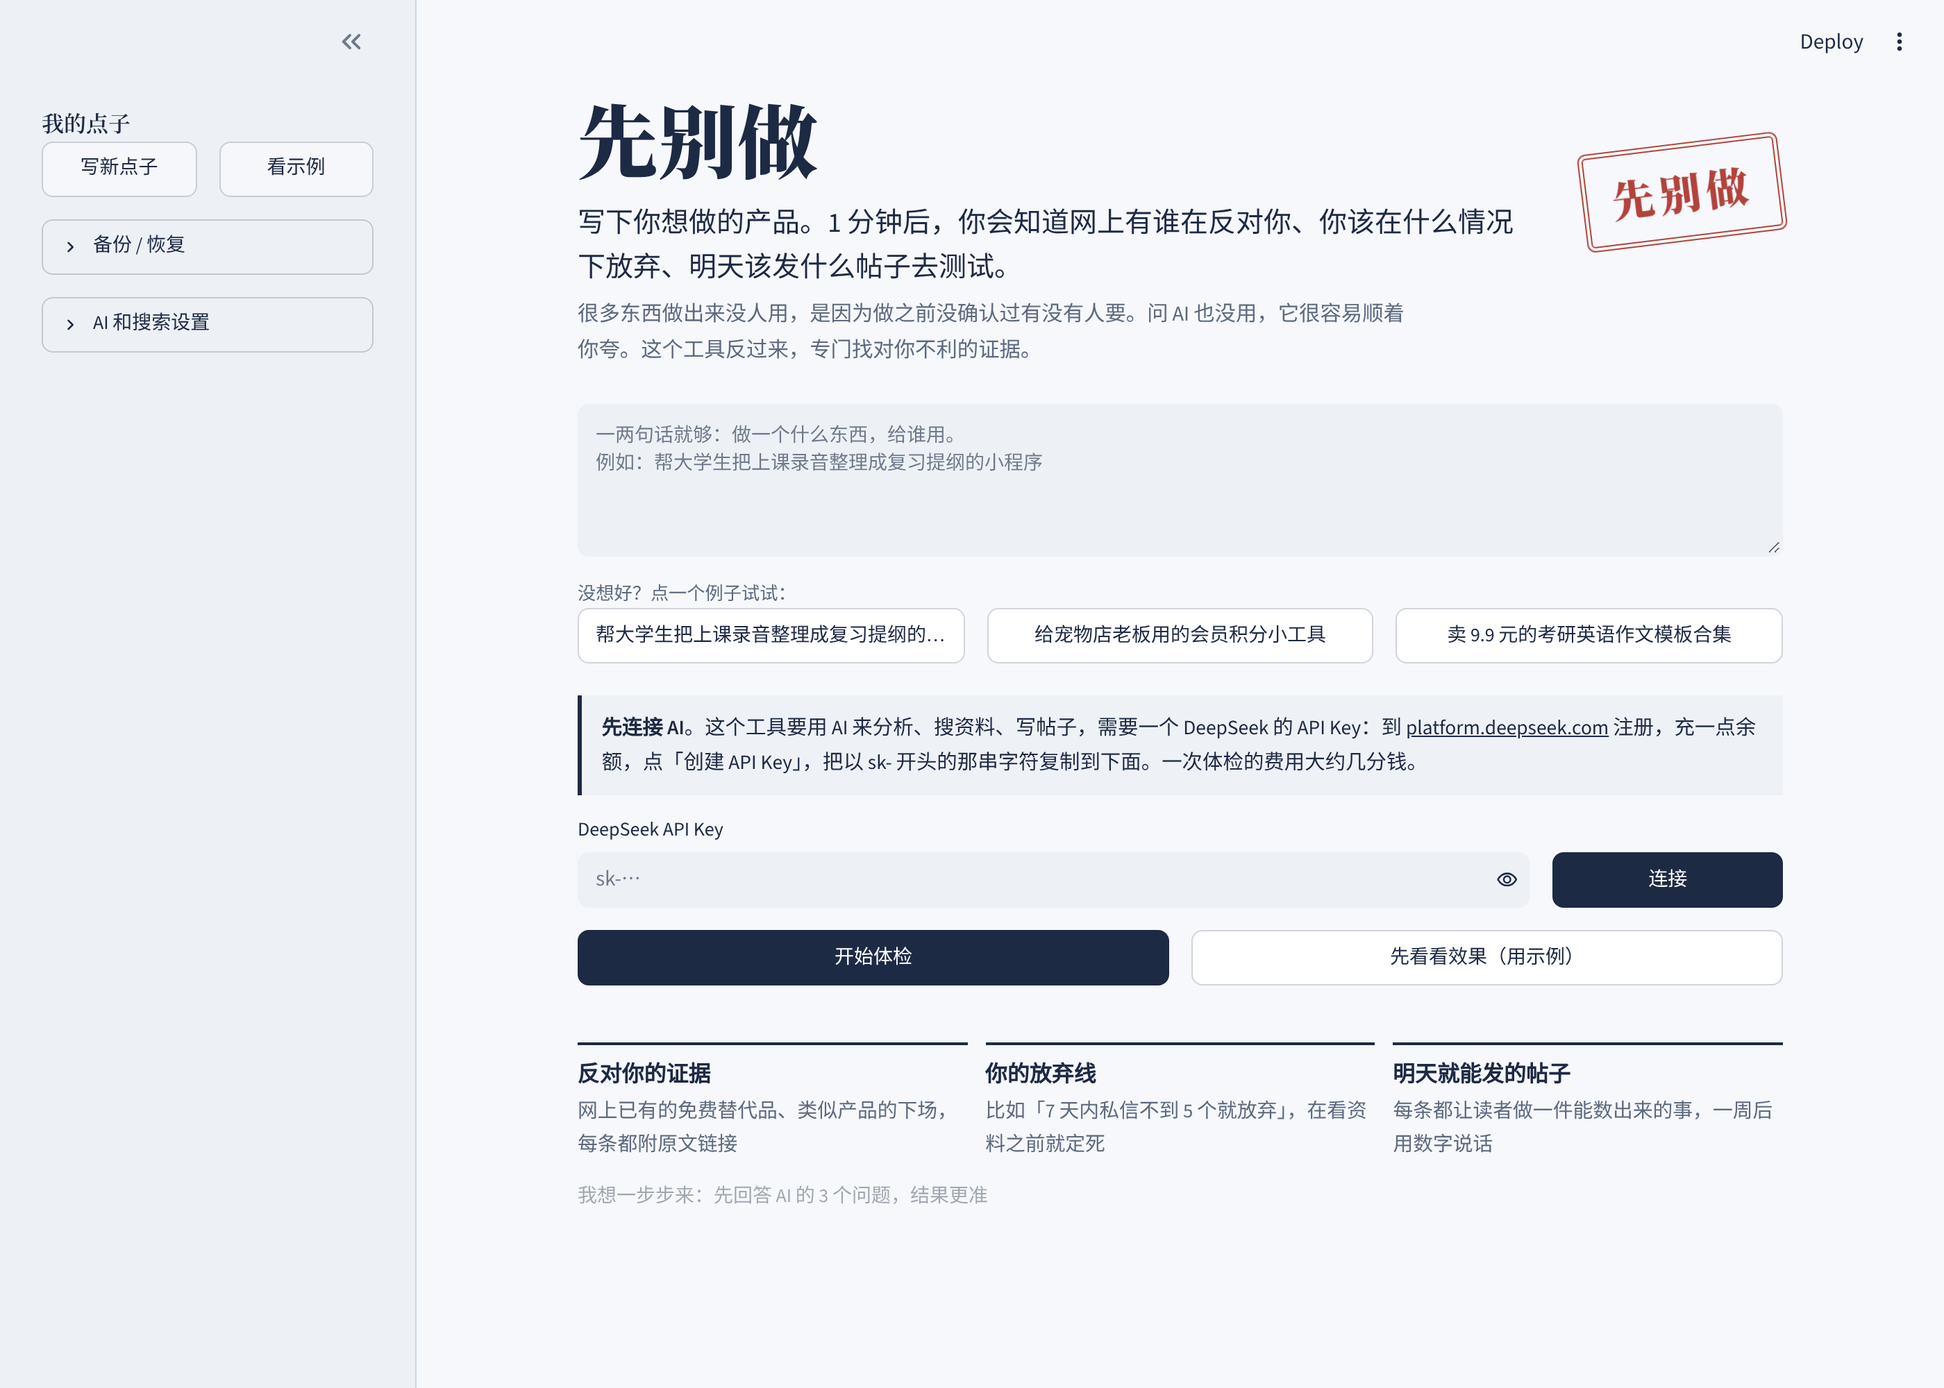
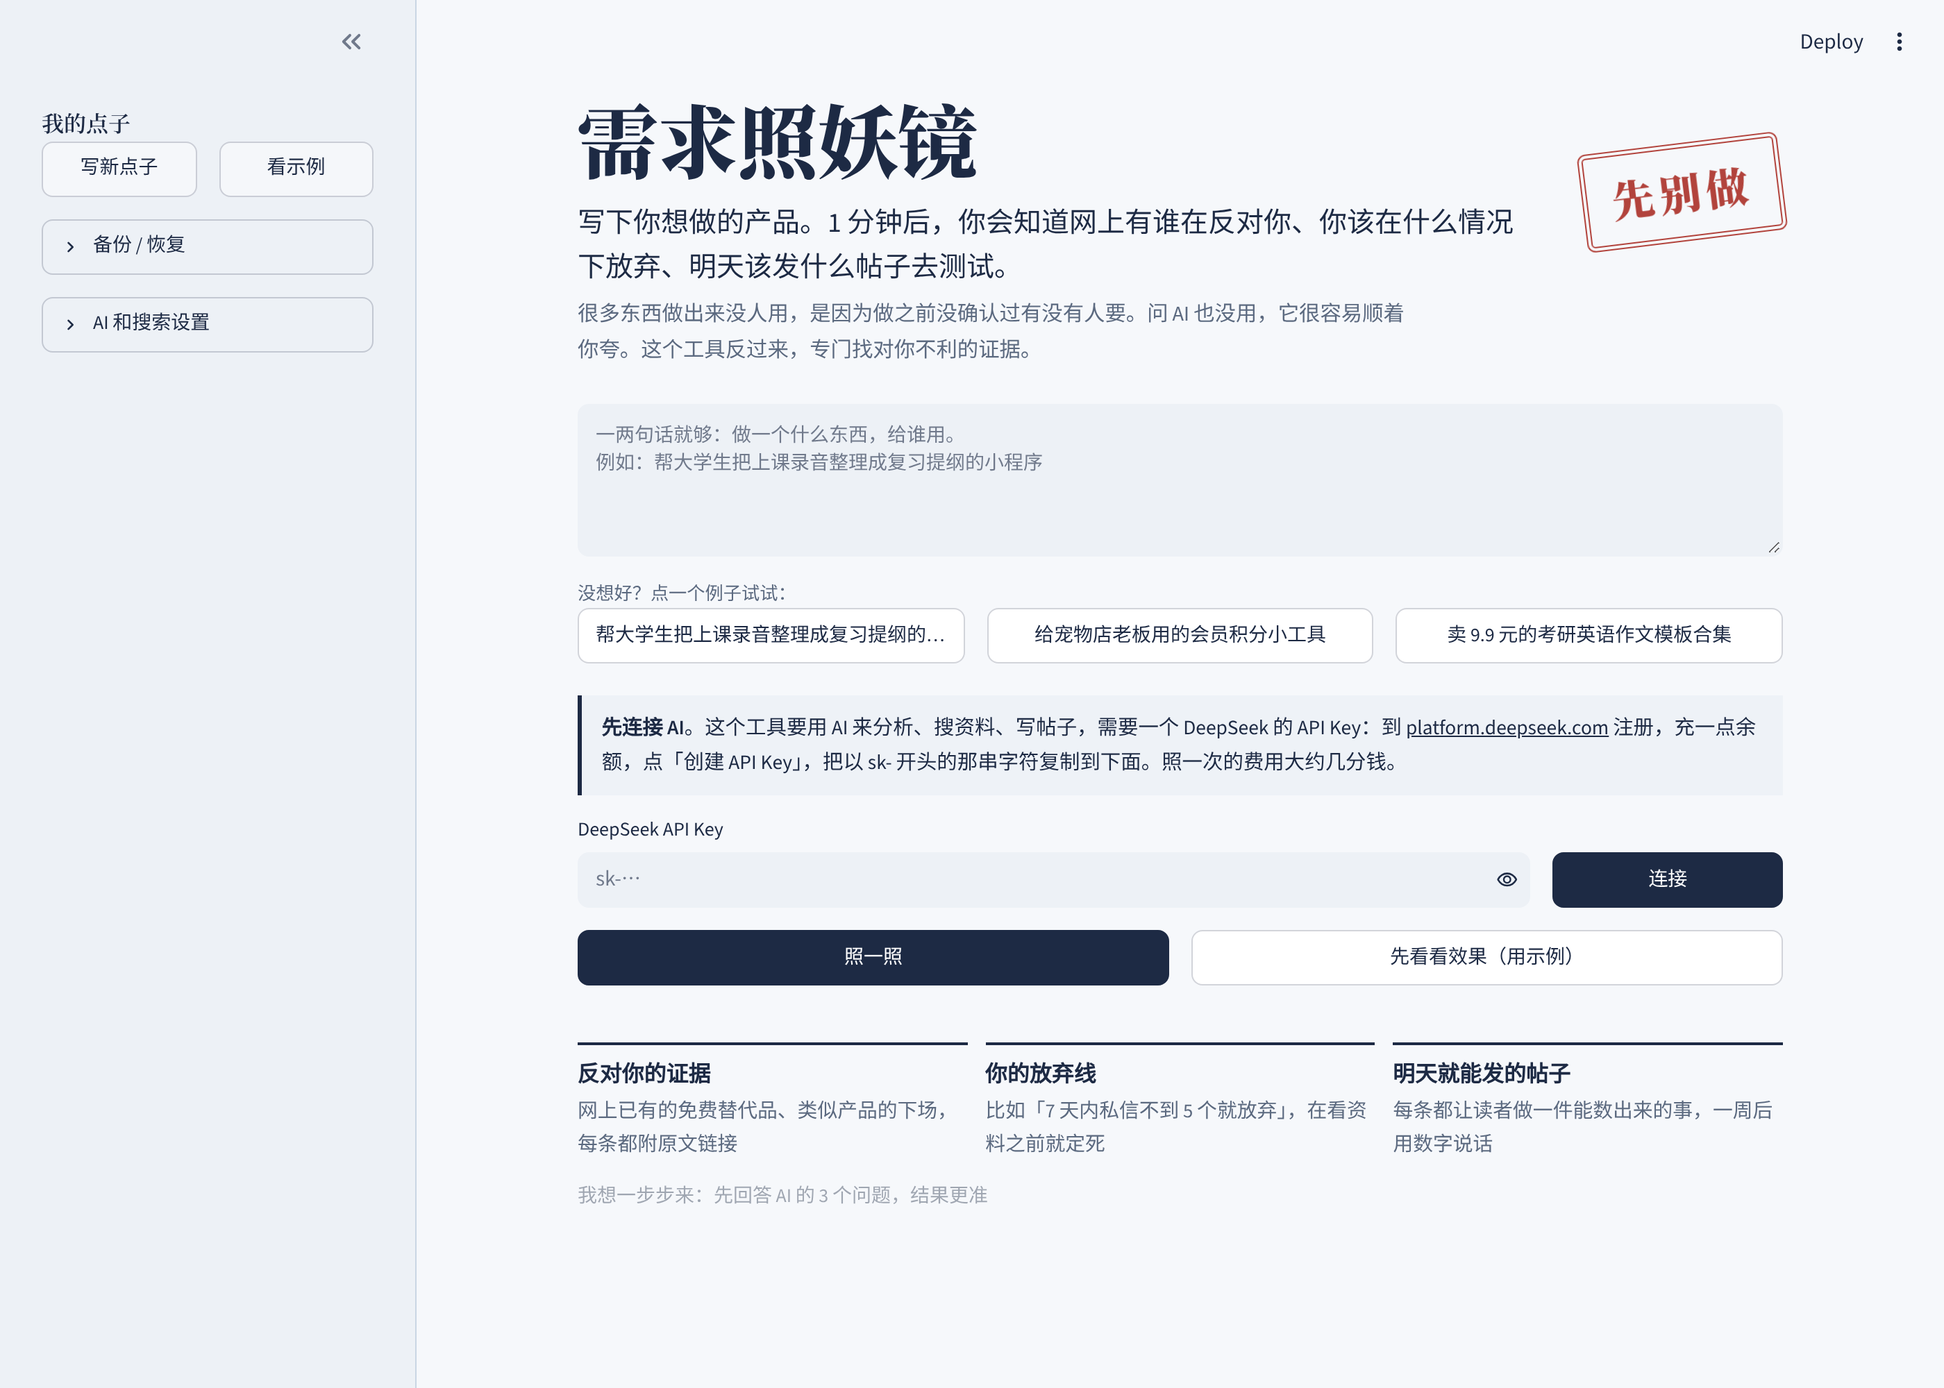
改名：需求照妖镜（demand-mirror）
Claude-Session: https://claude.ai/code/session_01JqKqMtYoFTaxdRpnRhv7rj

Changed region(s): [[0.2796, 0.062, 0.4971, 0.124], [0.5904, 0.527, 0.7146, 0.558], [0.435, 0.682, 0.4661, 0.713]]

diff --git a/app.py b/app.py
@@ -1,4 +1,4 @@
-"""先别做 · Streamlit 界面。运行：streamlit run app.py"""
+"""需求照妖镜 · Streamlit 界面。运行：streamlit run app.py"""
 
 from __future__ import annotations
 
@@ -19,7 +19,7 @@ from dby.rules import RuleError, change_criteria, evaluate, lock_criteria
 from dby.search import SearchError
 
 load_dotenv(override=True)
-st.set_page_config(page_title="先别做", page_icon="🔖", layout="centered")
+st.set_page_config(page_title="需求照妖镜", page_icon="🪞", layout="centered")
 st.html(ui.CSS)
 # 页面本身是中文，但 Streamlit 默认把 <html> 标成英文，浏览器会自动"翻译"，
 # 翻译插件改写页面会让 Streamlit 白屏。这里把语言改成中文并禁止翻译。
@@ -128,7 +128,7 @@ with st.sidebar:
             st.rerun()
 
     with st.expander("备份 / 恢复"):
-        st.download_button("下载备份文件", p.model_dump_json(indent=2), file_name=f"先别做-{p.id}.json",
+        st.download_button("下载备份文件", p.model_dump_json(indent=2), file_name=f"需求照妖镜-{p.id}.json",
                            mime="application/json", use_container_width=True)
         up = st.file_uploader("上传备份文件恢复", type="json")
         if up is not None and st.button("恢复", use_container_width=True):
@@ -136,7 +136,7 @@ with st.sidebar:
                 ss.project = Project.model_validate_json(up.getvalue())
                 st.rerun()
             except Exception as err:  # noqa: BLE001
-                st.warning(f"这个文件不是先别做的备份：{err}")
+                st.warning(f"这个文件不是需求照妖镜的备份：{err}")
 
     with st.expander("AI 和搜索设置"):
         preset = st.selectbox("用哪家的 AI", list(PRESETS) + ["自定义"], index=0)
@@ -181,7 +181,7 @@ def connect_box() -> None:
     st.markdown(
         '<div class="notice"><b>先连接 AI</b>。这个工具要用 AI 来分析、搜资料、写帖子，需要一个 DeepSeek 的 API Key：'
         '到 <a href="https://platform.deepseek.com/api_keys" target="_blank">platform.deepseek.com</a> '
-        "注册，充一点余额，点「创建 API Key」，把以 sk- 开头的那串字符复制到下面。一次体检的费用大约几分钱。</div>",
+        "注册，充一点余额，点「创建 API Key」，把以 sk- 开头的那串字符复制到下面。照一次的费用大约几分钱。</div>",
         unsafe_allow_html=True,
     )
     k1, k2 = st.columns([4, 1], vertical_alignment="bottom")
@@ -198,9 +198,9 @@ def connect_box() -> None:
 
 def run_quick(target: Project, use_llm, use_searcher) -> None:
     try:
-        with st.status("正在体检，大约需要 1 分钟…", expanded=True) as box:
+        with st.status("正在照，大约需要 1 分钟…", expanded=True) as box:
             notes = pipeline.quick_check(target, use_llm, use_searcher, now(), progress=box.write)
-            box.update(label="体检完成", state="complete", expanded=False)
+            box.update(label="照好了", state="complete", expanded=False)
     except RuleError as err:
         st.warning(str(err))
         return
@@ -239,7 +239,7 @@ if not started:
     if needs_key:
         connect_box()
     b1, b2 = st.columns(2)
-    go = b1.button("开始体检", type="primary", use_container_width=True)
+    go = b1.button("照一照", type="primary", use_container_width=True)
     peek = b2.button("先看看效果（用示例）", use_container_width=True)
     if go:
         if needs_key:
@@ -282,7 +282,7 @@ if p.quick:
     for n in ss.get("research_notes", []):
         st.caption(n)
     c1, c2, c3 = st.columns(3)
-    c1.download_button("下载分享图（小红书尺寸）", share.render(p, now()), file_name=f"体检-{p.title}.png",
+    c1.download_button("下载分享图（小红书尺寸）", share.render(p, now()), file_name=f"照妖镜-{p.title}.png",
                        mime="image/png", type="primary", use_container_width=True)
     c2.download_button("下载完整报告", to_markdown(p, now()), file_name=f"验证报告-{p.title}.md",
                        mime="text/markdown", use_container_width=True)
@@ -296,7 +296,7 @@ if p.quick:
     )
 
 def N(k: int) -> int:
-    """一键体检时跳过了前两步，后面的步骤从 1 开始编号。"""
+    """照一照时跳过了前两步，后面的步骤从 1 开始编号。"""
     return k - 2 if p.quick else k
 
 
@@ -394,7 +394,7 @@ if p.criteria or p.assumptions:
     st.markdown(ui.step(N(3), "定好放弃条件", state), unsafe_allow_html=True)
     if p.quick:
         st.markdown(
-            ui.lede("体检时 AI 先替你定好了放弃线，而且是在搜资料之前就定死的，所以没法根据资料去凑。"
+            ui.lede("照的时候 AI 先替你定好了放弃线，而且是在搜资料之前就定死的，所以没法根据资料去凑。"
                     "觉得不合理可以改，但会留下记录。"),
             unsafe_allow_html=True,
         )

diff --git a/dby/ui.py b/dby/ui.py
@@ -57,7 +57,7 @@ h1, h2, h3, .serif, .masthead h1, .step h3 { font-family: "Noto Serif SC", "Noto
 .gets div { border-top: 2px solid var(--ink); padding-top: .5rem; font-size: .9rem; color: var(--muted); line-height: 1.6; }
 .gets b { display: block; color: var(--ink); font-size: 1rem; font-weight: 600; margin-bottom: .15rem; }
 
-/* 体检结果卡 */
+/* 结果卡 */
 .card { background: var(--sheet); border: 1px solid var(--rule); border-radius: 6px; padding: 1.4rem 1.6rem 1.2rem; margin: .4rem 0 1rem; }
 .card .idea { color: var(--muted); font-size: .95rem; line-height: 1.7; margin-bottom: .2rem; }
 .card .top { display: grid; grid-template-columns: auto 1fr; gap: 1.2rem; align-items: center; margin: .2rem 0 .6rem; }
@@ -154,8 +154,8 @@ e = html.escape
 
 
 def masthead(mode: str) -> str:
-    return f"""<div class="masthead"><h1>先别做</h1>
-<p>动手写代码之前，先花一周搞清楚：到底有没有人要。</p>
+    return f"""<div class="masthead"><h1>需求照妖镜</h1>
+<p>照一照你的点子到底有没有人要。</p>
 <div class="mode">{mode}</div></div>"""
 
 
@@ -227,7 +227,7 @@ def post(channel: str, title: str, body: str, cta: str, counts: str) -> str:
 
 def hero() -> str:
     return f"""<div class="hero"><div class="hero-wrap"><div>
-<h1>先别做</h1>
+<h1>需求照妖镜</h1>
 <p class="pitch">写下你想做的产品。1 分钟后，你会知道网上有谁在反对你、你该在什么情况下放弃、明天该发什么帖子去测试。</p>
 </div><div class="hero-stamp">{stamp(Status.negative)}</div></div>
 <p class="sub">很多东西做出来没人用，是因为做之前没确认过有没有人要。问 AI 也没用，它很容易顺着你夸。这个工具反过来，专门找对你不利的证据。</p>

diff --git a/dby/share.py b/dby/share.py
@@ -1,4 +1,4 @@
-"""生成 3:4 的分享图（适合小红书），把体检结果盖章展示。只用 Pillow，不需要联网。"""
+"""生成 3:4 的分享图（适合小红书），把照妖结果盖章展示。只用 Pillow，不需要联网。"""
 
 from __future__ import annotations
 
@@ -105,7 +105,7 @@ def render(p: Project, now: datetime) -> bytes:
     small_f = _font(_SANS, 26)
 
     # 抬头
-    d.text((M, 70), "我的点子做了一次体检", font=title_f, fill=INK)
+    d.text((M, 70), "我的点子照了照妖镜", font=title_f, fill=INK)
     d.line((M, 150, W - M, 150), fill=INK, width=3)
     d.line((M, 157, W - M, 157), fill=INK, width=1)
 
@@ -157,8 +157,8 @@ def render(p: Project, now: datetime) -> bytes:
 
     # 页脚
     d.line((M, H - 140, W - M, H - 140), fill=RULE, width=2)
-    d.text((M, H - 115), "先别做 · 不预测点子行不行，只找能推翻它的证据", font=small_f, fill=MUTED)
-    d.text((M, H - 75), "github.com/Kkk6t/dont-build-yet", font=small_f, fill=MUTED)
+    d.text((M, H - 115), "需求照妖镜 · 照一照你的点子到底有没有人要", font=small_f, fill=MUTED)
+    d.text((M, H - 75), "github.com/Kkk6t/demand-mirror", font=small_f, fill=MUTED)
 
     buf = io.BytesIO()
     img.save(buf, format="PNG", optimize=True)

diff --git a/dby/report.py b/dby/report.py
@@ -20,7 +20,7 @@ def to_markdown(p: Project, now: datetime) -> str:
     v = evaluate(p, now)
     L: list[str] = []
     L.append(f"# 验证报告：{p.title}\n")
-    L.append(f"> 由「先别做」生成于 {_fmt(now)}。本报告不打分、不给建议，只记录现在有什么证据。\n")
+    L.append(f"> 由「需求照妖镜」生成于 {_fmt(now)}。本报告不打分、不给建议，只记录现在有什么证据。\n")
 
     L.append("## 判定\n")
     L.append(f"**{v.status.value}**　·　手里最硬的证据：{LEVEL_NAMES[v.highest_level]}\n")

diff --git a/dby/config.py b/dby/config.py
@@ -71,7 +71,7 @@ ENV_PATH = Path(__file__).resolve().parent.parent / ".env"
 def save_env(s: Settings, path: Path = ENV_PATH) -> None:
     """把设置写进项目文件夹的 .env，下次打开自动读取。.env 已在 .gitignore 里，不会传到 GitHub。"""
     lines = [
-        "# 先别做的本机设置。这个文件不会上传到 GitHub。",
+        "# 需求照妖镜的本机设置。这个文件不会上传到 GitHub。",
         f"LLM_BASE_URL={s.llm_base_url}",
         f"LLM_MODEL={s.llm_model}",
         f"LLM_API_KEY={s.llm_api_key}",

diff --git a/dby/prompts.py b/dby/prompts.py
@@ -4,7 +4,7 @@
 判断（状态、等级上限、链接是否真实）都在代码里。
 """
 
-SYSTEM = """你是「先别做」的分析引擎。你的工作不是判断一个点子好不好，而是帮用户尽快找到能推翻它的证据。
+SYSTEM = """你是「需求照妖镜」的分析引擎。你的工作不是判断一个点子好不好，而是帮用户尽快找到能推翻它的证据。
 
 铁律：
 1. 不打分，不给成功率，不说"建议做/不建议做"，不用"前景、潜力、蓝海、刚需、风口"这类词。

diff --git a/dby/models.py b/dby/models.py
@@ -176,7 +176,7 @@ class Project(BaseModel):
     id: str = Field(default_factory=lambda: _id("p"))
     created_at: datetime = Field(default_factory=datetime.now)
     demo: bool = False
-    quick: bool = False  # 用「一键体检」跑出来的
+    quick: bool = False  # 用「照一照」跑出来的
 
     idea: str = ""
     questions: list[Question] = Field(default_factory=list)

diff --git a/dby/pipeline.py b/dby/pipeline.py
@@ -315,7 +315,7 @@ def criteria_json(p: Project) -> str:
     return json.dumps([c.model_dump(mode="json") for c in p.criteria], ensure_ascii=False)
 
 
-# ---------- 一键体检 ----------
+# ---------- 照一照（一键跑完） ----------
 
 
 def quick_check(p: Project, llm: LLM, searcher: Searcher, now: datetime, progress=lambda msg: None) -> list[str]:

diff --git a/dby/demo.py b/dby/demo.py
@@ -1,4 +1,4 @@
-"""演示数据：用「先别做」验证「先别做」自己。
+"""演示数据：用需求照妖镜照它自己。
 
 搜索结果的标题和链接是真实存在的页面（2026 年 11 月检索），
 摘要是作者用自己的话写的转述，不是原文。

diff --git a/dby/__init__.py b/dby/__init__.py
@@ -1,3 +1,3 @@
-"""先别做（DontBuildYet）：不预测你的点子行不行，只帮你拿到能推翻它的证据。"""
+"""需求照妖镜（demand-mirror）：不预测你的点子行不行，只帮你拿到能推翻它的证据。"""
 
 __version__ = "0.1.0"

diff --git a/README.md b/README.md
@@ -1,18 +1,18 @@
-# 先别做 · DontBuildYet
+# 需求照妖镜 · demand-mirror
 
-**不预测你的点子行不行，只帮你拿到能推翻它的证据。**
+**照一照你的点子到底有没有人要。不预测行不行，只找能推翻它的证据。**
 
-[下载](https://github.com/Kkk6t/dont-build-yet/archive/refs/heads/main.zip) · [怎么运行](#下载和运行) · [自我验证报告](examples/dogfood-report.md)
+[下载](https://github.com/Kkk6t/demand-mirror/archive/refs/heads/main.zip) · [怎么运行](#下载和运行) · [自我验证报告](examples/dogfood-report.md)
 
-写下你想做的产品，1 分钟后你会拿到一份「体检结果」：网上有谁在反对你、你该在什么情况下放弃、明天该发什么帖子去测试。它不打分、不说"前景广阔"，只找对你不利的证据。
+写下你想做的产品，1 分钟后你会拿到一份「照妖结果」：网上有谁在反对你、你该在什么情况下放弃、明天该发什么帖子去测试。它不打分、不说"前景广阔"，只找对你不利的证据。
 
 <table>
 <tr>
-<td width="58%"><img src="docs/screenshots/02-result.png" alt="一键体检的结果"></td>
+<td width="58%"><img src="docs/screenshots/02-result.png" alt="照一照的结果"></td>
 <td><img src="docs/screenshots/06-share.png" alt="生成的分享图"></td>
 </tr>
 <tr>
-<td>一键体检：盖章结论、最该担心的事（带出处）、放弃线、明天就发的帖子</td>
+<td>照一照：盖章结论、最该担心的事（带出处）、放弃线、明天就发的帖子</td>
 <td>一键生成 3:4 分享图，可以直接发小红书</td>
 </tr>
 </table>
@@ -50,7 +50,7 @@
 
 ## 两种用法
 
-**一键体检**（首页默认）：输入点子，点「开始体检」。AI 先定好放弃线并锁定，再上网找反对意见，最后写好测试帖子。整个过程约 1 分钟，结果页可以下载分享图和完整报告。之后照着「接下来一周」发帖、回填反应即可。
+**照一照**（首页默认）：输入点子，点「照一照」。AI 先定好放弃线并锁定，再上网找反对意见，最后写好测试帖子。整个过程约 1 分钟，结果页可以下载分享图和完整报告。之后照着「接下来一周」发帖、回填反应即可。
 
 **一步步来**：先回答 AI 的 3 个追问，自己修改放弃条件后再锁定，结果更贴合你的情况。完整流程如下：
 
@@ -112,7 +112,7 @@ flowchart LR
 | 用户只用一次 | **不解决**：作品集不需要留存 |
 | 目标用户付费能力弱 | **不解决**：作品集不需要收费 |
 
-## 自我验证：用「先别做」验证「先别做」
+## 自我验证：用需求照妖镜照它自己
 
 演示模式里的案例，就是这个工具本身。完整报告见 [examples/dogfood-report.md](examples/dogfood-report.md)。
 
@@ -127,7 +127,7 @@ flowchart LR
 ### Windows
 
 1. **装 Python**（装过就跳过）：到 [python.org/downloads](https://www.python.org/downloads/) 下载 3.10 或更高版本。安装第一屏一定要勾选最下面的 **Add python.exe to PATH**。
-2. **下载这个项目**：[点这里下载压缩包](https://github.com/Kkk6t/dont-build-yet/archive/refs/heads/main.zip)，右键「全部解压缩」。注意要真的解压，不要在压缩包里直接打开。
+2. **下载这个项目**：[点这里下载压缩包](https://github.com/Kkk6t/demand-mirror/archive/refs/heads/main.zip)，右键「全部解压缩」。注意要真的解压，不要在压缩包里直接打开。
 3. **在项目文件夹里打开命令行**：一层层点进解压出来的文件夹，直到能看到 `app.py`。点一下窗口顶部的地址栏，把里面的路径删掉，输入 `cmd`，按回车，会弹出一个黑色窗口。
 4. **第一次用，先装组件**（只需要一次，大约 1 到 3 分钟）：
 
@@ -156,8 +156,8 @@ flowchart LR
 ### 用命令行（开发者）
 
 ```bash
-git clone https://github.com/Kkk6t/dont-build-yet.git
-cd dont-build-yet
+git clone https://github.com/Kkk6t/demand-mirror.git
+cd demand-mirror
 pip install -r requirements.txt
 streamlit run app.py
 ```
@@ -165,7 +165,7 @@ streamlit run app.py
 ### 第一次打开之后
 
 - **不填 Key 也能看**：首页点「先看看效果（用示例）」，完整看一遍结果。
-- **分析你自己的点子**：需要一个 DeepSeek 的 API Key。到 [platform.deepseek.com](https://platform.deepseek.com/api_keys) 注册、充一点余额、创建 Key，粘贴到首页点「连接」。这一个 Key 同时管 AI 分析和联网搜索，一次体检大约几分钱。Key 会保存在本地的 `.env` 文件里，不会上传。
+- **分析你自己的点子**：需要一个 DeepSeek 的 API Key。到 [platform.deepseek.com](https://platform.deepseek.com/api_keys) 注册、充一点余额、创建 Key，粘贴到首页点「连接」。这一个 Key 同时管 AI 分析和联网搜索，照一次大约几分钱。Key 会保存在本地的 `.env` 文件里，不会上传。
 
 ### 常见问题
 

diff --git a/examples/dogfood-report.md b/examples/dogfood-report.md
@@ -1,6 +1,6 @@
 # 自我验证报告：做一个帮人验证产品点子的 AI 工具：用户说出想…
 
-> 由「先别做」生成于 2026-11-02 16:00。本报告不打分、不给建议，只记录现在有什么证据。
+> 由「需求照妖镜」生成于 2026-11-02 16:00。本报告不打分、不给建议，只记录现在有什么证据。
 
 ## 判定
 
